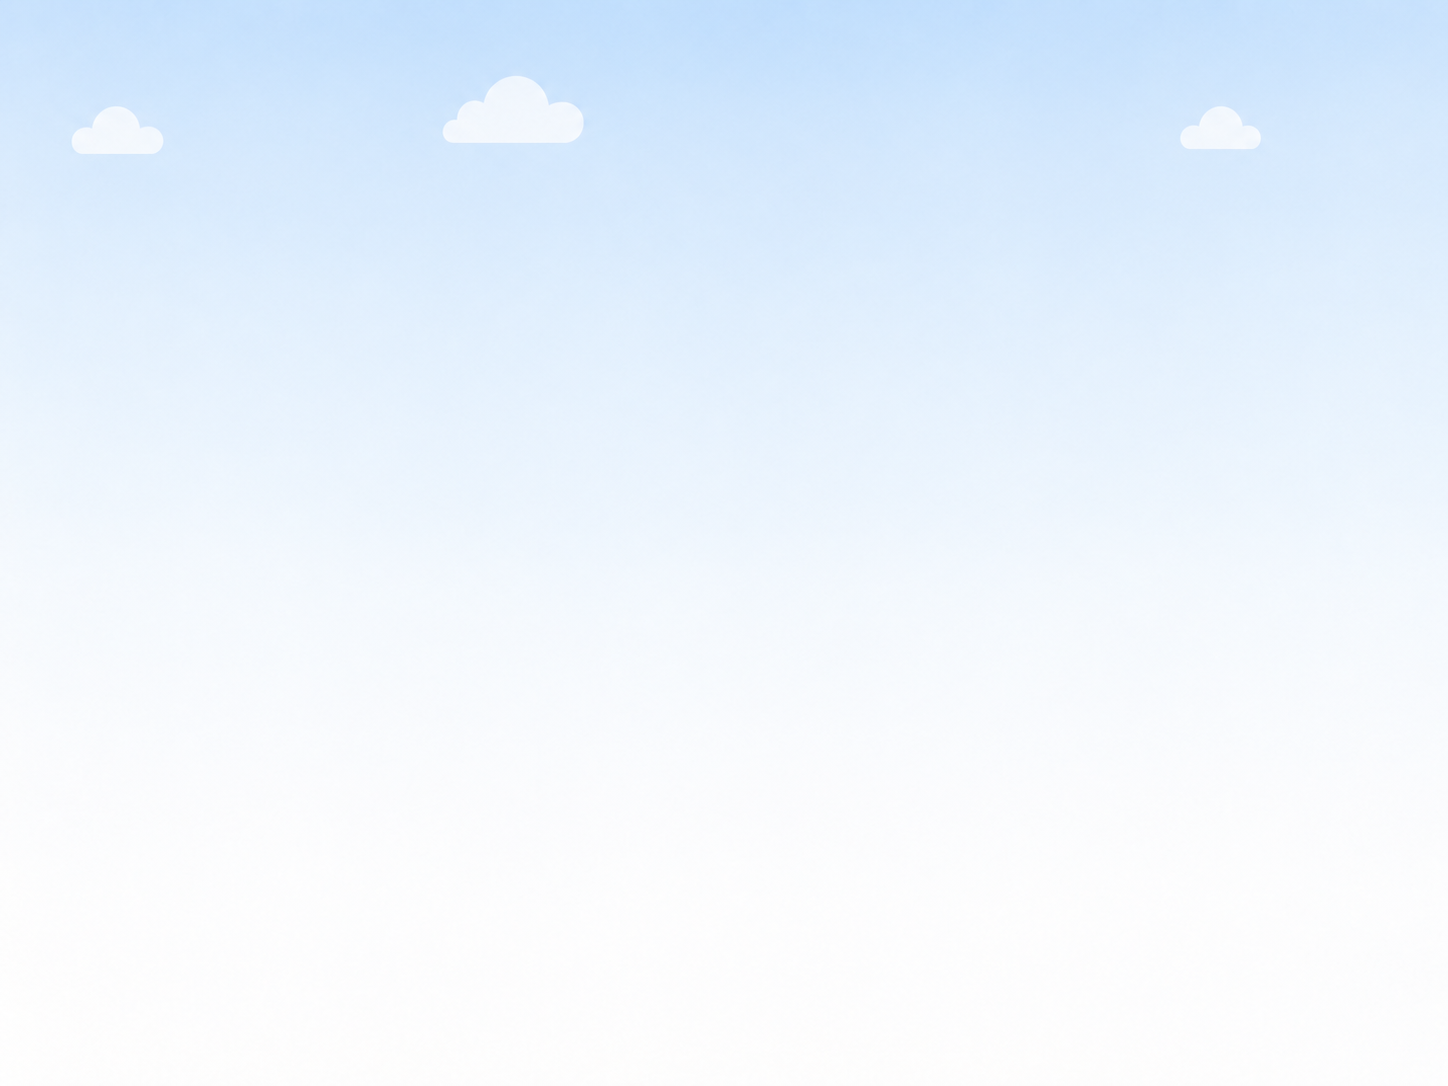
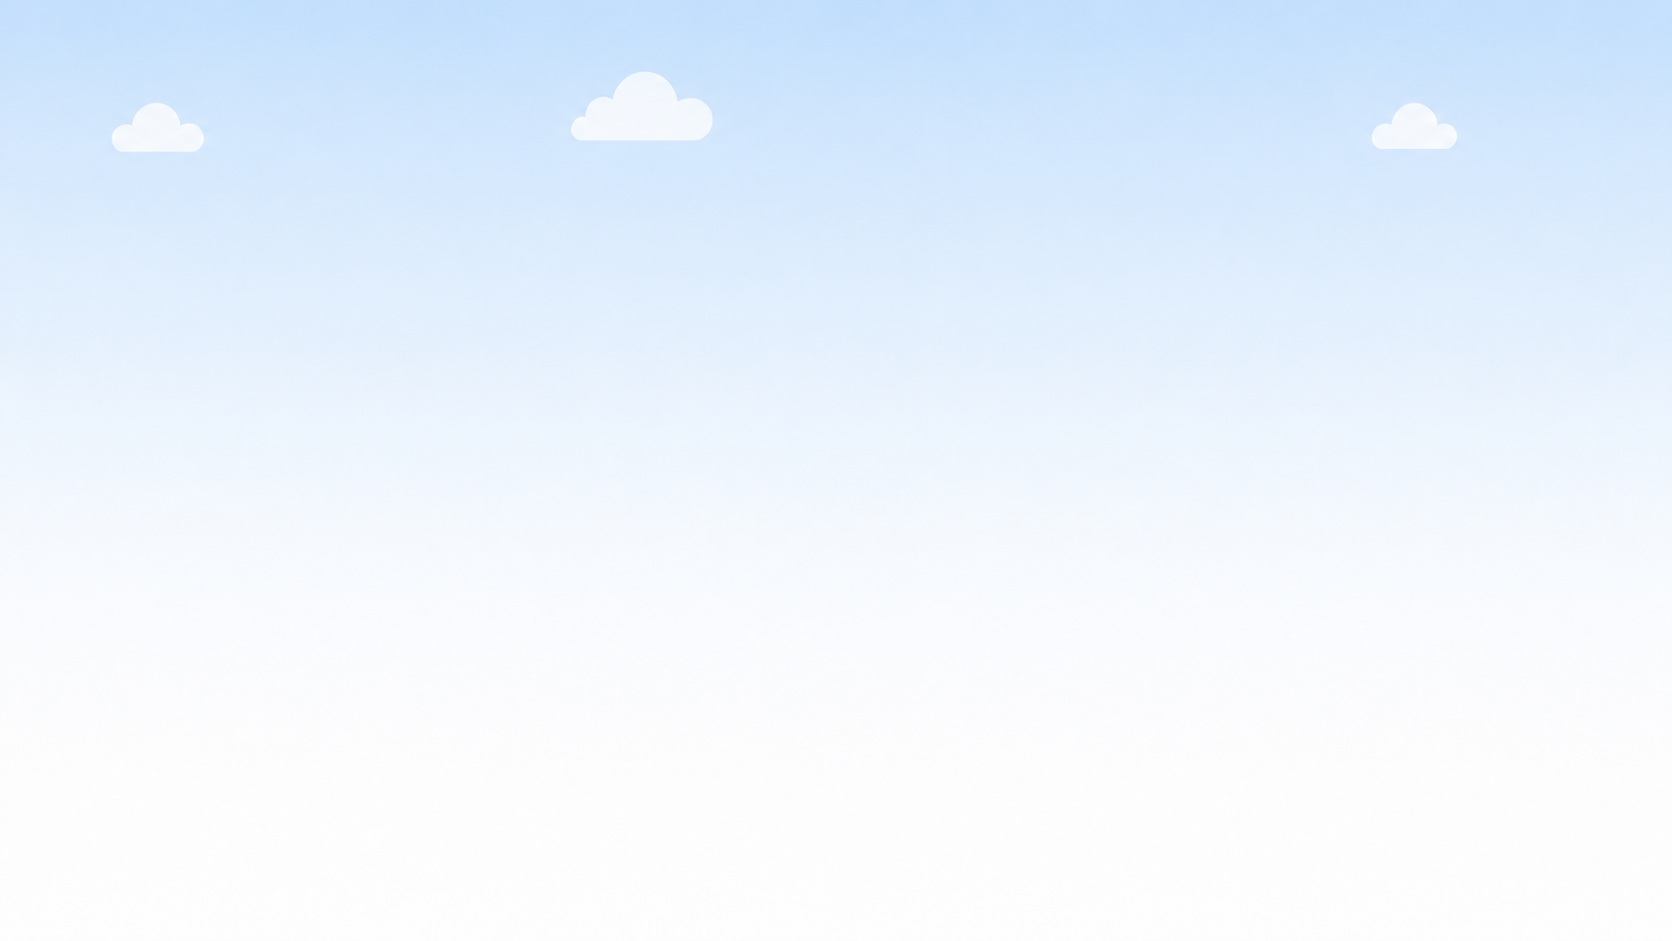
Improve gesture camera handling and playground UI
Lazy-initialize and cache the MediaPipe HandLandmarker to avoid repeated model loads; add stopCamera to cleanly stop video, tracks, animation frames and reset tracking state. Wire stopCamera into CameraPanel and replace the raw video with a stop-button wrapper when active. Adjust app shell spacing and student-nav button position for gesture practice. Update Playground student-mode background styling and success modal visuals (new stars, layout, and styles). Also include updated background image asset and import of Star icon.

Changed region(s): [[0.3108, 0.0616, 0.4351, 0.1541], [0.0311, 0.0925, 0.1243, 0.1849], [0.808, 0.0925, 0.8702, 0.1541]]

diff --git a/src/features/gesture/gesture-practice-view.tsx b/src/features/gesture/gesture-practice-view.tsx
@@ -208,18 +208,22 @@ export function GesturePracticeView() {
 
     setTrackerStatus("loading");
     const vision = await import("@mediapipe/tasks-vision");
-    const fileset = await vision.FilesetResolver.forVisionTasks("/mediapipe/wasm");
-    const handLandmarker = await vision.HandLandmarker.createFromOptions(fileset, {
-      baseOptions: { modelAssetPath: "/models/hand_landmarker.task" },
-      runningMode: "VIDEO",
-      numHands: 2,
-      minHandDetectionConfidence: 0.5,
-      minHandPresenceConfidence: 0.5,
-      minTrackingConfidence: 0.5
-    });
+    let handLandmarker = handLandmarkerRef.current;
 
-    handLandmarkerRef.current = handLandmarker;
-    handConnectionsRef.current = vision.HandLandmarker.HAND_CONNECTIONS;
+    if (!handLandmarker) {
+      const fileset = await vision.FilesetResolver.forVisionTasks("/mediapipe/wasm");
+      handLandmarker = await vision.HandLandmarker.createFromOptions(fileset, {
+        baseOptions: { modelAssetPath: "/models/hand_landmarker.task" },
+        runningMode: "VIDEO",
+        numHands: 2,
+        minHandDetectionConfidence: 0.5,
+        minHandPresenceConfidence: 0.5,
+        minTrackingConfidence: 0.5
+      });
+      handLandmarkerRef.current = handLandmarker;
+      handConnectionsRef.current = vision.HandLandmarker.HAND_CONNECTIONS;
+    }
+
     const context = canvasRef.current?.getContext("2d");
     if (!context) throw new Error("The tracking canvas is unavailable.");
     drawingUtilsRef.current = new vision.DrawingUtils(context);
@@ -310,6 +314,32 @@ export function GesturePracticeView() {
         description: "Allow camera access and restart the camera to use the live hand outline."
       });
     }
+  }
+
+  function stopCamera() {
+    if (animationFrameRef.current !== null) {
+      window.cancelAnimationFrame(animationFrameRef.current);
+      animationFrameRef.current = null;
+    }
+
+    streamRef.current?.getTracks().forEach((track) => track.stop());
+    streamRef.current = null;
+
+    if (videoRef.current) {
+      videoRef.current.pause();
+      videoRef.current.srcObject = null;
+    }
+
+    drawingUtilsRef.current = null;
+    setCameraStarted(false);
+    setTrackingState("idle");
+    setDetectedHandCount(0);
+    lastHandCountRef.current = -1;
+    lastVideoTimeRef.current = -1;
+    noHandsFrameCountRef.current = 0;
+    lastAutoAudioKeyRef.current = null;
+    clearPrediction();
+    setFeedback("");
   }
 
   function clearPrediction() {
@@ -429,6 +459,7 @@ export function GesturePracticeView() {
               playful
               focusMode={cameraFocusMode}
               onStartCamera={startCamera}
+              onStopCamera={stopCamera}
             />
 
             <LearnerFeedbackBar
@@ -515,6 +546,7 @@ export function GesturePracticeView() {
           canvasRef={canvasRef}
           trackerStatus={trackerStatus}
           detectedHandCount={detectedHandCount}
+          onStopCamera={stopCamera}
         />
 
         <div className="mt-3 grid gap-3 sm:grid-cols-3">
@@ -953,7 +985,8 @@ function CameraPanel({
   detectedHandCount,
   playful = false,
   focusMode = false,
-  onStartCamera
+  onStartCamera,
+  onStopCamera
 }: {
   cameraStarted: boolean;
   videoRef: RefObject<HTMLVideoElement>;
@@ -963,8 +996,10 @@ function CameraPanel({
   playful?: boolean;
   focusMode?: boolean;
   onStartCamera?: () => void;
+  onStopCamera?: () => void;
 }) {
   const canStartFromPanel = Boolean(playful && !cameraStarted && onStartCamera);
+  const canStopFromPanel = Boolean(cameraStarted && onStopCamera);
 
   return (
     <div
@@ -976,13 +1011,26 @@ function CameraPanel({
       )}
     >
       {cameraStarted ? (
-        <video
-          ref={videoRef}
-          autoPlay
-          playsInline
-          muted
-          className={cn(playful && "rounded-[1.45rem]", focusMode ? "h-full min-h-0" : "aspect-video", "w-full -scale-x-100 object-cover")}
-        />
+        <button
+          type="button"
+          onClick={onStopCamera}
+          disabled={!canStopFromPanel}
+          className={cn(
+            playful && "rounded-[1.45rem]",
+            "block w-full overflow-hidden focus-visible:outline focus-visible:outline-4 focus-visible:outline-blue-200",
+            focusMode ? "h-full min-h-0" : "aspect-video",
+            canStopFromPanel ? "cursor-pointer" : "cursor-default"
+          )}
+          aria-label="Turn camera off"
+        >
+          <video
+            ref={videoRef}
+            autoPlay
+            playsInline
+            muted
+            className="h-full w-full -scale-x-100 object-cover"
+          />
+        </button>
       ) : (
         <button
           type="button"

diff --git a/src/features/playground/playground-view.tsx b/src/features/playground/playground-view.tsx
@@ -8,6 +8,7 @@ import {
   MessageSquareText,
   RotateCcw,
   Shuffle,
+  Star,
   Volume2
 } from "lucide-react";
 import { Button } from "@/components/ui/button";
@@ -310,10 +311,18 @@ export function PlaygroundView() {
             <div
               className={
                 isStudentMode
-                  ? "fixed inset-0 z-40 bg-cover bg-center bg-no-repeat px-2 py-2 sm:px-3 lg:px-4"
+                  ? "fixed inset-0 z-40 bg-sky-100 bg-no-repeat px-2 pb-2 pt-20 sm:px-3 sm:pb-3 lg:px-4"
                   : "fixed bottom-24 left-0 right-0 top-0 z-40 px-3 py-2 md:px-6 lg:bottom-0 lg:left-72 lg:px-8 lg:py-4"
               }
-              style={isStudentMode ? { backgroundImage: "url('/playground/student-mode-background.png')" } : undefined}
+              style={
+                isStudentMode
+                  ? {
+                      backgroundImage: "url('/playground/student-mode-background.png')",
+                      backgroundPosition: "top center",
+                      backgroundSize: "100% auto"
+                    }
+                  : undefined
+              }
             >
               <div className={`mx-auto grid h-full overflow-hidden rounded-2xl border border-blue-100 shadow-[0_16px_44px_rgba(37,99,235,0.16)] backdrop-blur-2xl ${
                 isStudentMode
@@ -472,33 +481,39 @@ export function PlaygroundView() {
                   </div>
                 </section>
                 {showSuccessModal ? (
-                  <div className="fixed inset-0 z-[60] grid place-items-center bg-slate-950/50 px-3 py-6 backdrop-blur-sm">
+                  <div className="fixed inset-0 z-[60] grid place-items-center bg-sky-900/20 px-3 py-6">
                     <div
                       role="dialog"
                       aria-modal="true"
                       aria-labelledby="playground-success-title"
-                      className="max-h-[90vh] w-full max-w-3xl overflow-y-auto rounded-2xl border border-emerald-200 bg-white p-5 text-center shadow-[0_24px_80px_rgba(16,185,129,0.28)] clean-scrollbar sm:p-6"
+                      className="relative max-h-[90vh] w-full max-w-3xl overflow-hidden rounded-[1.75rem] border border-emerald-200 bg-gradient-to-b from-white via-white to-sky-50 p-5 text-center shadow-[0_24px_80px_rgba(37,99,235,0.2)] sm:p-6"
                     >
-                      <div className="mx-auto grid h-14 w-14 place-items-center rounded-full bg-emerald-100 text-emerald-700">
-                        <CheckCircle2 className="h-8 w-8" aria-hidden="true" />
-                      </div>
-                      <h2 id="playground-success-title" className="mt-4 text-4xl font-black tracking-wide text-emerald-600 sm:text-5xl">
-                        GOOD JOB
-                      </h2>
-                      <p className="mt-2 text-base font-semibold text-slate-700">You built a nice sentence.</p>
-                      <div className="mt-5 flex flex-wrap justify-center gap-3">
-                        {sentenceCards.map((card, index) => (
-                          <div key={`success-${card.id}-${index}`} className="w-24 rounded-lg border border-blue-100 bg-white p-2 shadow-sm sm:w-28 md:w-32">
-                            <div className="grid aspect-[3/4] w-full place-items-center overflow-hidden rounded-lg border border-slate-200 bg-white">
-                              {/* eslint-disable-next-line @next/next/no-img-element */}
-                              <img src={card.imageUrl} alt={`${card.label} correct sentence card`} className="h-full w-full object-contain" />
+                      <div className="relative max-h-[calc(90vh-2.5rem)] overflow-y-auto clean-scrollbar">
+                        <div className="relative mx-auto h-20 w-20 rounded-full bg-gradient-to-b from-lime-300 to-green-300 shadow-[0_12px_24px_rgba(16,185,129,0.16),inset_0_-6px_0_rgba(15,23,42,0.08)]" aria-hidden="true">
+                          <span className="absolute h-3 w-3 rounded-full bg-ink" style={{ left: "21px", top: "25px" }} />
+                          <span className="absolute h-3 w-3 rounded-full bg-ink" style={{ right: "21px", top: "25px" }} />
+                          <span className="absolute left-1/2 h-6 w-10 -translate-x-1/2 rounded-b-full border-b-[5px] border-green-800" style={{ top: "42px" }} />
+                        </div>
+                        <h2 id="playground-success-title" className="mt-4 flex items-center justify-center gap-3 text-4xl font-black tracking-wide text-emerald-600 sm:text-5xl">
+                          <Star className="h-8 w-8 fill-yellow-300 text-yellow-400 sm:h-10 sm:w-10" aria-hidden="true" />
+                          <span>GOOD JOB</span>
+                          <Star className="h-8 w-8 fill-yellow-300 text-yellow-400 sm:h-10 sm:w-10" aria-hidden="true" />
+                        </h2>
+                        <p className="mt-2 text-base font-semibold text-slate-700">You built a nice sentence.</p>
+                        <div className="mt-5 flex flex-wrap justify-center gap-3">
+                          {sentenceCards.map((card, index) => (
+                            <div key={`success-${card.id}-${index}`} className="w-24 rounded-xl border border-blue-100 bg-white p-2 shadow-sm sm:w-28 md:w-32">
+                              <div className="grid aspect-[3/4] w-full place-items-center overflow-hidden rounded-lg border border-slate-200 bg-white">
+                                {/* eslint-disable-next-line @next/next/no-img-element */}
+                                <img src={card.imageUrl} alt={`${card.label} correct sentence card`} className="h-full w-full object-contain" />
+                              </div>
                             </div>
-                          </div>
-                        ))}
+                          ))}
+                        </div>
+                        <Button type="button" className="mt-6 min-h-12 px-6" onClick={() => setShowSuccessModal(false)}>
+                          PLAY AGAIN
+                        </Button>
                       </div>
-                      <Button type="button" className="mt-6 min-h-12 px-6" onClick={() => setShowSuccessModal(false)}>
-                        PLAY AGAIN
-                      </Button>
                     </div>
                   </div>
                 ) : null}

diff --git a/src/components/layout/app-shell.tsx b/src/components/layout/app-shell.tsx
@@ -93,7 +93,7 @@ function AuthenticatedShell({ children }: { children: ReactNode }) {
           <button
             type="button"
             onClick={() => setStudentNavOpen(true)}
-            className="fixed left-4 top-4 z-[70] rounded-2xl shadow-[0_12px_30px_rgba(37,99,235,0.18)] transition hover:-translate-y-0.5 focus-visible:outline focus-visible:outline-4 focus-visible:outline-blue-100"
+            className="fixed left-4 top-3 z-[70] rounded-2xl shadow-[0_12px_30px_rgba(37,99,235,0.18)] transition hover:-translate-y-0.5 focus-visible:outline focus-visible:outline-4 focus-visible:outline-blue-100"
             aria-label="Open student navigation"
             aria-expanded={studentNavOpen}
           >
@@ -150,7 +150,7 @@ function AuthenticatedShell({ children }: { children: ReactNode }) {
         className={cn(
           "app-canvas min-h-screen",
           isStudentMode
-            ? "px-2 pb-2 pt-2 sm:px-3 sm:py-3 lg:px-4"
+            ? cn("px-2 pb-2 sm:px-3 sm:pb-3 lg:px-4", pathname === "/gesture-practice" ? "pt-2 sm:pt-3" : "pt-20")
             : "px-4 pb-24 pt-5 md:px-6 lg:ml-72 lg:px-8 lg:pb-10 lg:pt-7"
         )}
       >